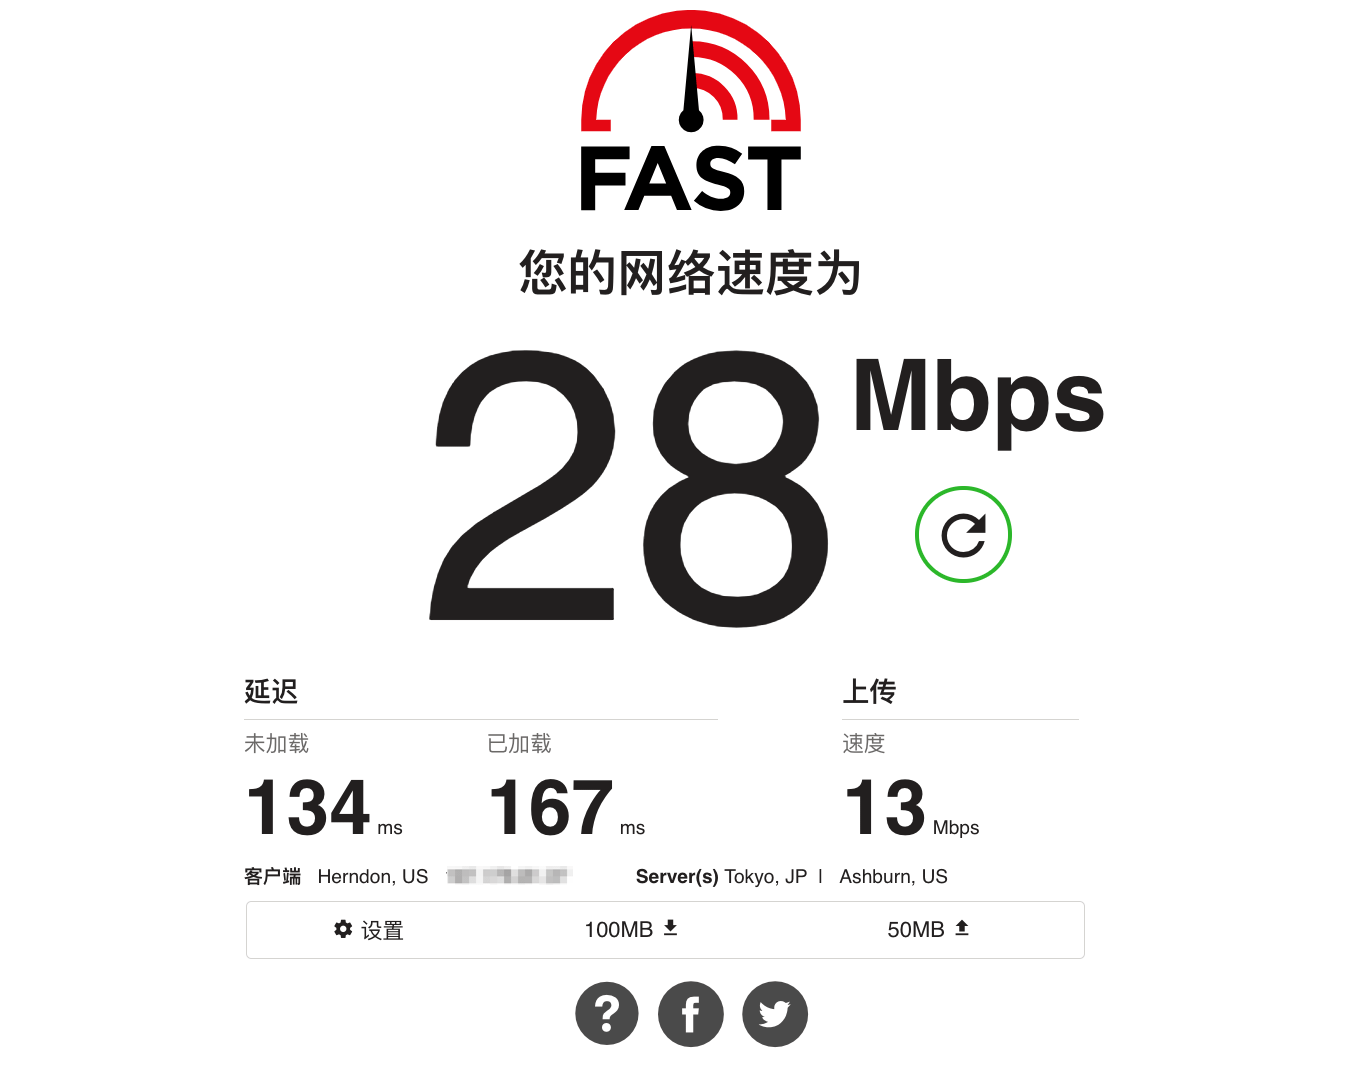
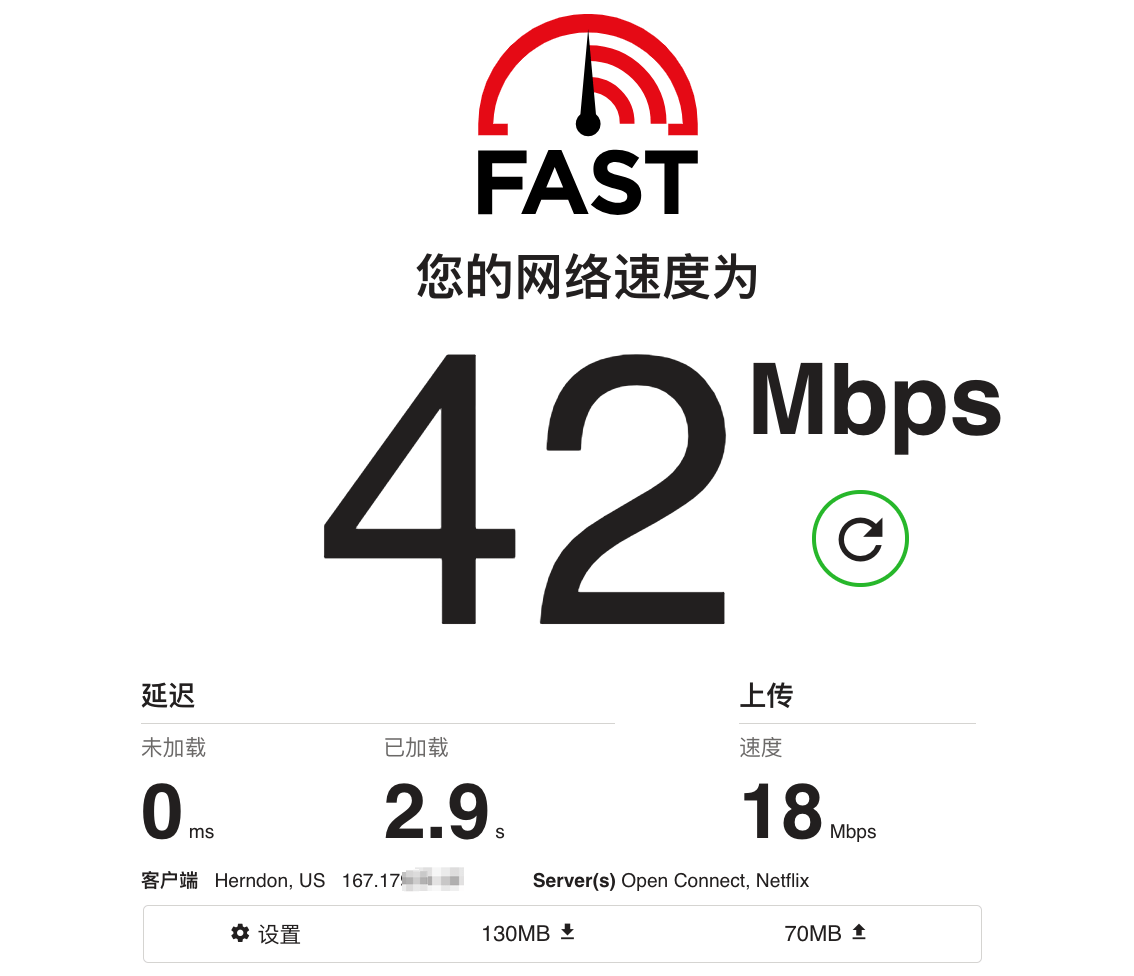
feat: update config for v2ray on r7800 post

diff --git a/source/_posts/r7800-openwrt-v2ray.md b/source/_posts/r7800-openwrt-v2ray.md
@@ -105,7 +105,7 @@ bash <(curl -L -s https://install.direct/go.sh)
 
 ```
 {
-  "log": {
+  "log" : {
     "access": "/var/log/v2ray/access.log",
     "error": "/var/log/v2ray/error.log",
     "loglevel": "warning"
@@ -121,15 +121,15 @@ bash <(curl -L -s https://install.direct/go.sh)
           "alterId": 64
         }
       ],
-      "detour": {
-        "to": "dynamicPort"
+      "detour":{
+        "to":"dynamicPort"
       }
     },
-    "streamSettings": {
-      "network": "kcp"
+    "streamSettings":{
+      "network":"kcp"
     }
   },
-  "inboundDetour": [
+  "inboundDetour":[
     {
       "protocol": "vmess",
       "port": "10000-20000",
@@ -161,23 +161,20 @@ bash <(curl -L -s https://install.direct/go.sh)
       "tag": "blocked"
     }
   ],
-  "transport": {
-    "tcpSettings": {
-      "connectionReuse": true
-    },
-    "kcpSettings": {
-      "mtu": 1350,
-      "tti": 20,
-      "uplinkCapacity": 100,
-      "downlinkCapacity": 100,
-      "congestion": false,
-      "readBufferSize": 5,
-      "writeBufferSize": 5,
-      "header": {
-        "type": "utp"
+ "transport":{
+      "kcpSettings":{
+         "mtu":1350,
+         "tti":50,
+         "uplinkCapacity":100,
+         "downlinkCapacity":200,
+         "congestion":true,
+         "readBufferSize":2,
+         "writeBufferSize":2,
+         "header":{
+            "type":"wechat-video"
+         }
       }
-    }
-  }
+   }
 }
 ```
 
@@ -296,7 +293,9 @@ mv v2ray v2ctl geoip.dat geosite.dat /usr/bin/v2ray/
   "dns": {
     "servers": [
       "119.29.29.29",
-      "localhost"
+      "localhost",
+      "8.8.8.8",
+      "8.8.4.4"
     ]
   },
   "routing": {
@@ -304,6 +303,43 @@ mv v2ray v2ctl geoip.dat geosite.dat /usr/bin/v2ray/
     "settings": {
       "domainStrategy": "IPIfNonMatch",
       "rules": [
+        {
+          "type": "field",
+          "domain": [
+            "geosite:cn"
+          ],
+          "outboundTag": "direct"
+        },
+        {
+          "type": "field",
+          "domain": [
+            "google",
+            "facebook",
+            "youtube",
+            "twitter",
+            "instagram",
+            "gmail",
+            "domain:twimg.com",
+            "domain:t.co"
+          ],
+          "outboundTag": "proxy"
+        },
+        {
+          "type": "field",
+          "ip": [
+            "8.8.8.8/32",
+            "8.8.4.4/32",
+            "91.108.56.0/22",
+            "91.108.4.0/22",
+            "109.239.140.0/24",
+            "149.154.164.0/22",
+            "91.108.56.0/23",
+            "67.198.55.0/24",
+            "149.154.168.0/22",
+            "149.154.172.0/22"
+          ],
+          "outboundTag": "proxy"
+        },
         {
           "type": "field",
           "port": "1-52",
@@ -374,14 +410,14 @@ mv v2ray v2ctl geoip.dat geosite.dat /usr/bin/v2ray/
     },
     "kcpSettings": {
       "mtu": 1350,
-      "tti": 20,
+      "tti": 50,
       "uplinkCapacity": 100,
-      "downlinkCapacity": 100,
-      "congestion": false,
-      "readBufferSize": 5,
-      "writeBufferSize": 5,
+      "downlinkCapacity": 200,
+      "congestion": true,
+      "readBufferSize": 2,
+      "writeBufferSize": 2,
       "header": {
-        "type": "utp"
+        "type": "wechat-video"
       }
     }
   }
@@ -497,7 +533,7 @@ service dnsmasq restart
 
 ## VII. 最后
 
-这边Youtube能够跑到1440P基本流畅不卡顿，跑下来平均速度在14.5Mbps(快的时候可以到20Mbps，慢的时候在8Mbps，80%的情况通常在12.5Mbps左右)，R7800的CPU基本上被吃到10%左右，算是符合预期吧，如果你的VPS选择也是参考[这篇文章](https://blog.dreamtobe.cn/ss-and-vps/)应该整体下来和我差不多:
+这边Youtube能够跑到1440P基本流畅不卡顿，跑下来平均速度在24.5Mbps(快的时候可以到30Mbps，慢的时候在18Mbps，80%的情况通常在22.5Mbps左右)，R7800的CPU基本上被吃到10%左右，算是符合预期吧，如果你的VPS选择也是参考[这篇文章](https://blog.dreamtobe.cn/ss-and-vps/)应该整体下来和我差不多:
 
 ![](https://blog.dreamtobe.cn/img/r7800-openwrt-5.png)
 
@@ -512,21 +548,21 @@ service dnsmasq restart
 ```
 "kcpSettings": {
   "mtu": 1350,
-  "tti": 10,
+  "tti": 50,
   "uplinkCapacity": 100,
   "downlinkCapacity": 200,
   "congestion": true,
   "readBufferSize": 2,
   "writeBufferSize": 2,
   "header": {
-    "type": "utp"
+    "type": "wechat-video"
   }
 }
 ```
 
-> P.S. 如果`header`使用`dtls`伪装，王者荣耀等通过udp协议匹配后会直接连接失败，因此这边我们采用`utp`伪装为BT下载数据，`dtls`相关存在问题的具体原因还没有深究。
+> P.S. 如果`header`使用`wechat-video`伪装，王者荣耀等通过udp协议匹配后会直接连接失败，因此这边我们采用`utp`伪装为BT下载数据，`dtls`相关存在问题的具体原因还没有深究。
 
-使用[这篇文章](https://blog.dreamtobe.cn/ss-and-vps/)的VPS换为东京后，并且如上做mKcp调整后，最终测速下来稳定在30Mbps左右:
+使用[这篇文章](https://blog.dreamtobe.cn/ss-and-vps/)的VPS换为东京后，并且如上做mKcp调整后，最终测速下来稳定在40Mbps左右:
 
 
 ![](/img/r7800-openwrt-v2ray-8.png)
@@ -545,3 +581,4 @@ service dnsmasq restart
 - [OpenWrt的DNS相关设置](https://www.right.com.cn/forum/thread-194080-1-1.html)
 - [openwrt 之 DNS配置文件修改](https://blog.csdn.net/zjqlovell/article/details/78598959)
 - [测速](https://fast.com)
+- [V2Ray各类模板配置](https://github.com/KiriKira/vTemplate)
